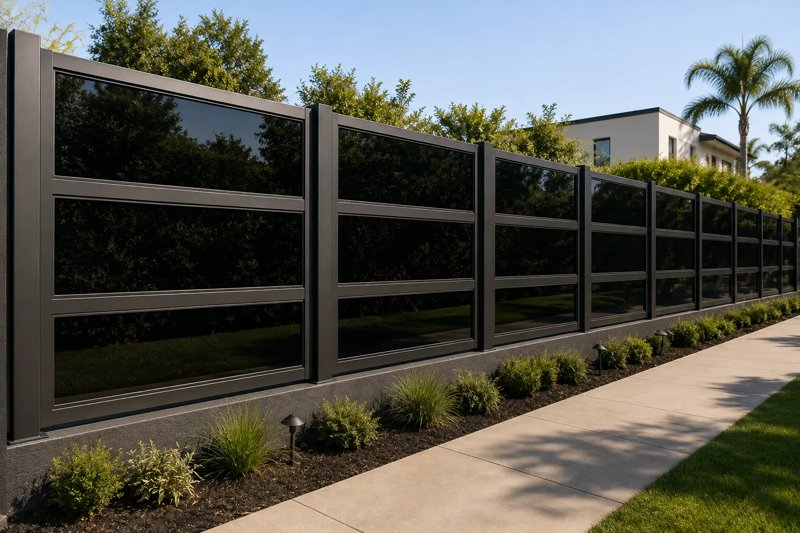
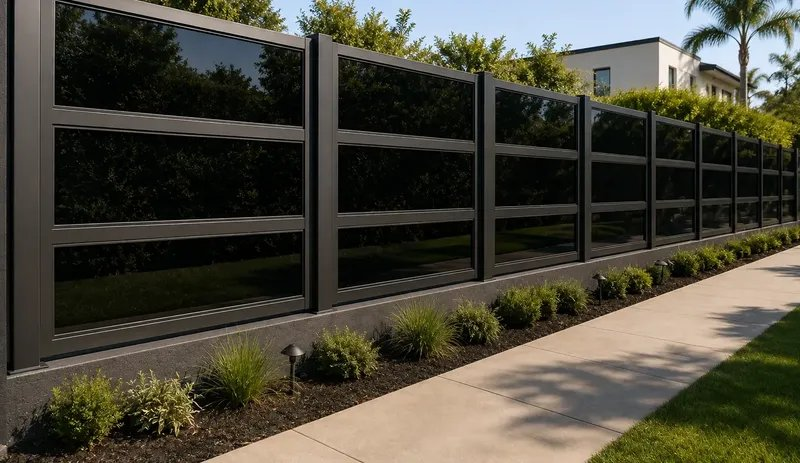
fix(mobile): usar resolvePhoto con thumb en carrusel movil y ajustar encuadre equilibrado para glass-series-fence

diff --git a/src/ui_kits/landing-page/fencing.jsx b/src/ui_kits/landing-page/fencing.jsx
@@ -426,9 +426,10 @@ function CollectionsMobileCarousel({ isMobile }) {
           }}
         >
           <img
-            src={PH + to2k(img)}
+            src={resolvePhoto(img, isMobile)}
             alt={name}
             loading="eager"
+            className="collection-card-img"
             style={{
               position: 'absolute',
               inset: 0,
